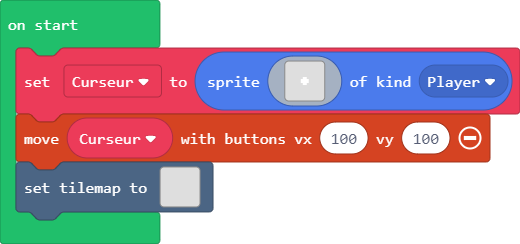
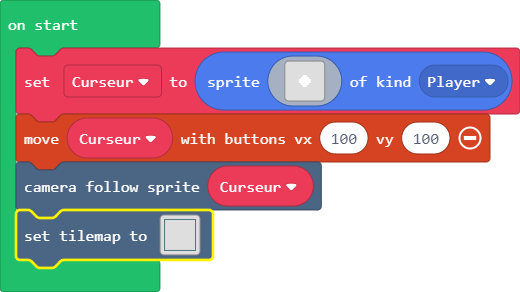
Update main.blocks, main.ts

diff --git a/main.ts b/main.ts
@@ -25,12 +25,12 @@ let Curseur = sprites.create(img`
 . . . . . . . . . . . . . . . . 
 . . . . . . . . . . . . . . . . 
 . . . . . . . . . . . . . . . . 
-. . . . . . . . . . . . . . . . 
 . . . . . . . 1 1 . . . . . . . 
 . . . . . . 1 1 1 1 . . . . . . 
+. . . . . 1 1 1 1 1 1 . . . . . 
+. . . . . 1 1 1 1 1 1 . . . . . 
 . . . . . . 1 1 1 1 . . . . . . 
 . . . . . . . 1 1 . . . . . . . 
-. . . . . . . . . . . . . . . . 
 . . . . . . . . . . . . . . . . 
 . . . . . . . . . . . . . . . . 
 . . . . . . . . . . . . . . . . 
@@ -38,42 +38,43 @@ let Curseur = sprites.create(img`
 . . . . . . . . . . . . . . . . 
 `, SpriteKind.Player)
 controller.moveSprite(Curseur, 100, 100)
+scene.cameraFollowSprite(Curseur)
 tiles.setTilemap(tiles.createTilemap(
-            hex`2000200000000000000000000000000000000000000000000000000000000000000000000000000000000000000000000000000000000000000000000000000000000000000000000000000000000000000000000000000000000000000000000000000000000000000000000000000000000000000000000000000000000000000000000000000000000000000000000000000000000000000000000000000000000000000000000000000000000000000000000000000000000000000000000000000000000000000000000000000000000000000000000000000000000000000000000000000000000000000000000000000000000000000000000000000000000000000000000000000000000000000000000000000000000000000000000000000000000000000000000000000000000000000000000000000000000000000000000000000000000000000000000000000000000000000000000000000000000000000000000000000000000000000000000000000000000000000000000000000000000000000000000000000000000000000000000000000000000000000000000000000000000000000000000000000000000000000000000000000000000000000000000000000000000000000000000000000000000000000000000000000000000000000000000000000000000000000000000000000000000000000000000000000000000000000000000000000000000000000000000000000000000000000000000000000000000000000000000000000000000000000000000000000000000000000000000000000000000000000000000000000000000000000000000000000000000000000000000000000000000000000000000000000000000000000000000000000000000000000000000000000000000000000000000000000000000000000000000000000000000000000000000000000000000000000000000000000000000000000000000000000000000000000000000000000000000000000000000000000000000000000000000000000000000000000000000000000000000000000000000000000000000000000000000000000000000000000000000000000000000000000000000000000000000000000000000000000000000000000000000000000000000000000000000000000000000000000000000000000000000000000000000000000000000000000000000000000000000000000000000000000000000000000000000000000000000000000000000000000000000000000000000000000000000000000000000000000000000000000000000000000000000000000000000000000000000000000000000000000000000000000000000000000000000000000000000000000000000000000000000000000000000000`,
[1 lines of base64/hex data omitted]
             img`
-. . . . . . . . . . . . . . . . . . . . . . . . . . . . . . . . 
-. . . . . . . . . . . . . . . . . . . . . . . . . . . . . . . . 
-. . . . . . . . . . . . . . . . . . . . . . . . . . . . . . . . 
-. . . . . . . . . . . . . . . . . . . . . . . . . . . . . . . . 
-. . . . . . . . . . . . . . . . . . . . . . . . . . . . . . . . 
-. . . . . . . . . . . . . . . . . . . . . . . . . . . . . . . . 
-. . . . . . . . . . . . . . . . . . . . . . . . . . . . . . . . 
-. . . . . . . . . . . . . . . . . . . . . . . . . . . . . . . . 
-. . . . . . . . . . . . . . . . . . . . . . . . . . . . . . . . 
-. . . . . . . . . . . . . . . . . . . . . . . . . . . . . . . . 
-. . . . . . . . . . . . . . . . . . . . . . . . . . . . . . . . 
-. . . . . . . . . . . . . . . . . . . . . . . . . . . . . . . . 
-. . . . . . . . . . . . . . . . . . . . . . . . . . . . . . . . 
-. . . . . . . . . . . . . . . . . . . . . . . . . . . . . . . . 
-. . . . . . . . . . . . . . . . . . . . . . . . . . . . . . . . 
-. . . . . . . . . . . . . . . . . . . . . . . . . . . . . . . . 
-. . . . . . . . . . . . . . . . . . . . . . . . . . . . . . . . 
-. . . . . . . . . . . . . . . . . . . . . . . . . . . . . . . . 
-. . . . . . . . . . . . . . . . . . . . . . . . . . . . . . . . 
-. . . . . . . . . . . . . . . . . . . . . . . . . . . . . . . . 
-. . . . . . . . . . . . . . . . . . . . . . . . . . . . . . . . 
-. . . . . . . . . . . . . . . . . . . . . . . . . . . . . . . . 
-. . . . . . . . . . . . . . . . . . . . . . . . . . . . . . . . 
-. . . . . . . . . . . . . . . . . . . . . . . . . . . . . . . . 
-. . . . . . . . . . . . . . . . . . . . . . . . . . . . . . . . 
-. . . . . . . . . . . . . . . . . . . . . . . . . . . . . . . . 
-. . . . . . . . . . . . . . . . . . . . . . . . . . . . . . . . 
-. . . . . . . . . . . . . . . . . . . . . . . . . . . . . . . . 
-. . . . . . . . . . . . . . . . . . . . . . . . . . . . . . . . 
-. . . . . . . . . . . . . . . . . . . . . . . . . . . . . . . . 
-. . . . . . . . . . . . . . . . . . . . . . . . . . . . . . . . 
-. . . . . . . . . . . . . . . . . . . . . . . . . . . . . . . . 
+2 2 2 2 2 2 2 2 2 2 2 2 2 2 2 2 2 2 2 2 2 2 2 2 2 2 2 2 2 2 2 2 
+2 . . . . . . . . . . . . . . . . . . . . . . . . . . . . . . 2 
+2 . . . . . . . . . . . . . . . . . . . . . . . . . . . . . . 2 
+2 . . . . . . . . . . . . . . . . . . . . . . . . . . . . . . 2 
+2 . . . . . . . . . . . . . . . . . . . . . . . . . . . . . . 2 
+2 . . . . . . . . . . . . . . . . . . . . . . . . . . . . . . 2 
+2 . . . . . . . . . . . . . . . . . . . . . . . . . . . . . . 2 
+2 . . . . . . . . . . . . . . . . . . . . . . . . . . . . . . 2 
+2 . . . . . . . . . . . . . . . . . . . . . . . . . . . . . . 2 
+2 . . . . . . . . . . . . . . . . . . . . . . . . . . . . . . 2 
+2 . . . . . . . . . . . . . . . . . . . . . . . . . . . . . . 2 
+2 . . . . . . . . . . . . . . . . . . . . . . . . . . . . . . 2 
+2 . . . . . . . . . . . . . . . . . . . . . . . . . . . . . . 2 
+2 . . . . . . . . . . . . . . . . . . . . . . . . . . . . . . 2 
+2 . . . . . . . . . . . . . . . . . . . . . . . . . . . . . . 2 
+2 . . . . . . . . . . . . . . . . . . . . . . . . . . . . . . 2 
+2 . . . . . . . . . . . . . . . . . . . . . . . . . . . . . . 2 
+2 . . . . . . . . . . . . . . . . . . . . . . . . . . . . . . 2 
+2 . . . . . . . . . . . . . . . . . . . . . . . . . . . . . . 2 
+2 . . . . . . . . . . . . . . . . . . . . . . . . . . . . . . 2 
+2 . . . . . . . . . . . . . . . . . . . . . . . . . . . . . . 2 
+2 . . . . . . . . . . . . . . . . . . . . . . . . . . . . . . 2 
+2 . . . . . . . . . . . . . . . . . . . . . . . . . . . . . . 2 
+2 . . . . . . . . . . . . . . . . . . . . . . . . . . . . . . 2 
+2 . . . . . . . . . . . . . . . . . . . . . . . . . . . . . . 2 
+2 . . . . . . . . . . . . . . . . . . . . . . . . . . . . . . 2 
+2 . . . . . . . . . . . . . . . . . . . . . . . . . . . . . . 2 
+2 . . . . . . . . . . . . . . . . . . . . . . . . . . . . . . 2 
+2 . . . . . . . . . . . . . . . . . . . . . . . . . . . . . . 2 
+2 . . . . . . . . . . . . . . . . . . . . . . . . . . . . . . 2 
+2 . . . . . . . . . . . . . . . . . . . . . . . . . . . . . . 2 
+2 2 2 2 2 2 2 2 2 2 2 2 2 2 2 2 2 2 2 2 2 2 2 2 2 2 2 2 2 2 2 2 
 `,
-            [myTiles.tile0,sprites.castle.tileGrass3],
+            [myTiles.tile0,sprites.castle.tileGrass3,sprites.castle.tileGrass1,sprites.castle.tileGrass2,sprites.dungeon.greenOuterEast0,sprites.dungeon.greenOuterNorth0,sprites.dungeon.greenOuterNorthWest,sprites.dungeon.greenOuterNorthEast,sprites.dungeon.greenOuterSouthWest,sprites.dungeon.greenOuterSouth0,sprites.dungeon.greenOuterSouth1,sprites.dungeon.greenOuterSouthEast,sprites.dungeon.greenOuterWest1,sprites.dungeon.greenOuterWest0],
             TileScale.Sixteen
         ))
